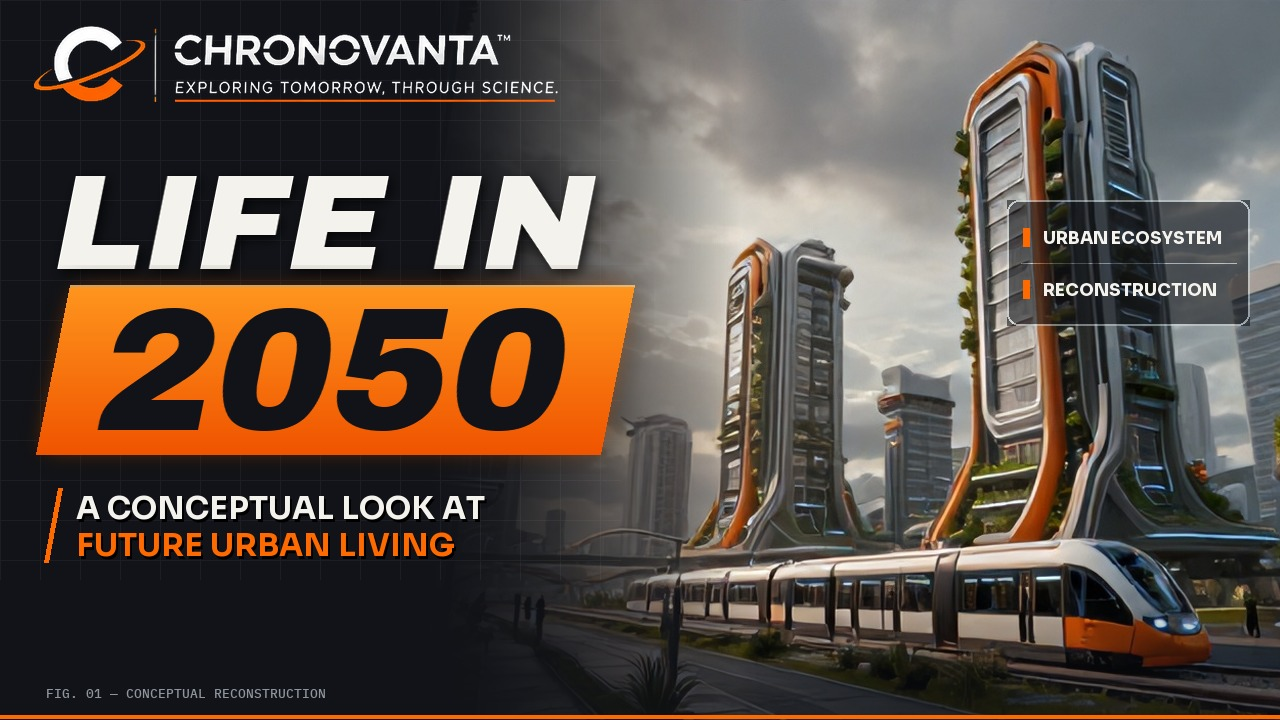
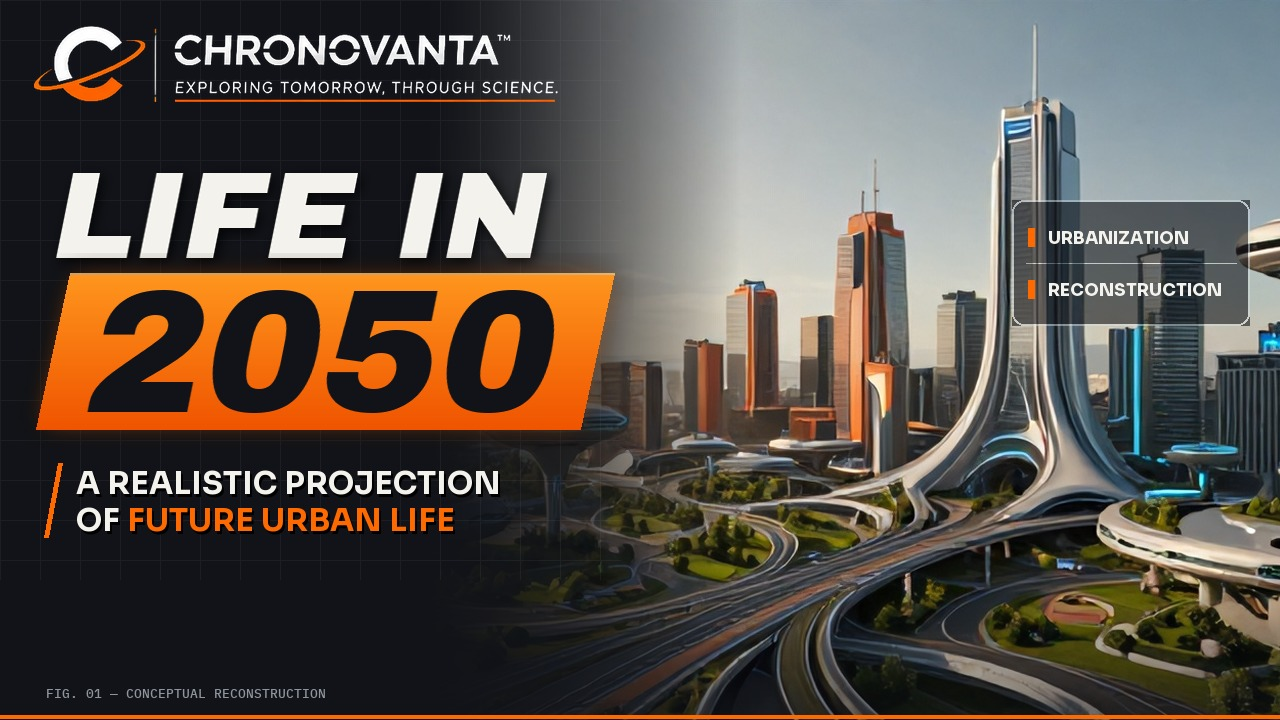
Shorts thumbnails inside YouTube's crop-safe area
YouTube shows a Short's 9:16 thumbnail cropped to about 2:3 in its lists, so
the logo at the very top was cut off. The Short card now keeps the logo and
headline in the middle (logo from y=270, headline from y=440, no annotation in
the bottom strip), and the style check fails any card with logo or headline in
the top 12%. Bar search on tall cards reaches 65% of the height.

diff --git a/src/style_match.py b/src/style_match.py
@@ -50,7 +50,7 @@ def measure(path: str | Path) -> dict:
     # The bar is the biggest orange area in the headline part of the card.
     zone = np.zeros_like(orange)
     if tall:
-        zone[: int(h * 0.5), :] = 1
+        zone[: int(h * 0.65), :] = 1  # the bar sits inside the crop-safe middle
     else:
         zone[:, : int(w * 0.62)] = 1
     count, labels, stats, _ = cv2.connectedComponentsWithStats(orange * zone, connectivity=8)
@@ -74,13 +74,19 @@ def measure(path: str | Path) -> dict:
         off_edge = (left <= 0 or right_cut) if tall else right_cut
     ivory = ((r > 205) & (g > 205) & (b > 195) & (abs(r - b) < 40)).astype(np.uint8)
     if tall:
-        area = ivory[int(h * 0.1): int(h * 0.3), :]
+        # The whole upper part: the headline may sit higher (examples) or lower
+        # (inside YouTube's crop-safe area) and is still measured the same way.
+        area = ivory[: int(h * 0.6), :]
     else:
         area = ivory[int(h * 0.18): int(h * 0.5), : int(w * 0.5)]
     # Headline letters touching the side edges.
     edge_text = bool(ivory[int(h * 0.1): int(h * 0.3), :2].any() or ivory[int(h * 0.1): int(h * 0.3), -2:].any())         if tall else bool(ivory[int(h * 0.18): int(h * 0.5), :2].any())
+    # YouTube shows a Short's 9:16 thumbnail cropped to about 2:3 in its lists:
+    # roughly the top and bottom 13% are cut, so no logo or headline may sit there.
+    in_crop = bool(tall and ivory[: int(h * 0.12), :].mean() > 0.002)
     return {"tall": tall, "bar_h": round(float(bar_h), 3), "bar_w": round(float(bar_w), 3),
-            "headline": round(float(area.mean()), 3), "off_edge": bool(off_edge), "edge_text": edge_text}
+            "headline": round(float(area.mean()), 3), "off_edge": bool(off_edge), "edge_text": edge_text,
+            "in_crop": in_crop}
 
 
 def reference(channel_id: str, tall: bool) -> dict | None:
@@ -127,6 +133,9 @@ def compare(path: str | Path, channel_id: str) -> dict:
         ratios["edge"] = 1
     if card.get("edge_text"):
         issues.append("headline letters touch the edge of the card")
+        ratios["edge"] = 1
+    if card.get("in_crop"):
+        issues.append("logo or headline sits in the top strip YouTube cuts off Shorts thumbnails")
         ratios["edge"] = 1
     worst = max(abs(r - 1) for k, r in ratios.items() if k != "edge")
     if "edge" in ratios:

diff --git a/src/future_thumbnail.py b/src/future_thumbnail.py
@@ -46,8 +46,8 @@ SPEC = {
         "sub_gap": 34, "sub_size": 31, "sub_weight": "Bold", "sub_upper": True, "sub_max_w": 470,
     },
     "short": {  # 1080 x 1920
-        "brand_y": 40, "brand_scale": 1.9,
-        "top_y": 230, "shear": 0.2,
+        "brand_y": 270, "brand_scale": 1.55,   # inside the 2:3 area YouTube shows
+        "top_y": 440, "shear": 0.2,
         "top_font": "archivo", "top_weight": "", "top_size": 240, "top_max_w": 920, "top_gap": 1.0,
         "big_font": "archivo", "big_size": 360, "big_max_w": 760,
         "bar_min_w": 940, "bar_slant": 50, "bar_pad": 70,
@@ -398,7 +398,7 @@ def compose_long(plan: dict, visual: Path | None, out: Path, channel, spec: dict
 def compose_short(plan: dict, visual: Path | None, out: Path, channel, spec: dict | None = None) -> Path:
     W, H = 1080, 1920
     canvas = Image.new("RGBA", (W, H), GRAPHITE + (255,))
-    art_top = 760
+    art_top = 940
     if visual and Path(visual).is_file():
         art = _cover(Image.open(visual).convert("RGB"), W, H - art_top + 260, 0.5).convert("RGBA")
         mask = Image.new("L", art.size, 255)
@@ -443,7 +443,7 @@ def compose_short(plan: dict, visual: Path | None, out: Path, channel, spec: dic
     for y in range(220):
         fd.line([(0, y), (W, y)], fill=GRAPHITE + (int(220 * (y / 220) ** 1.4),))
     canvas.alpha_composite(floor, (0, H - 220))
-    _annotation(canvas, 60, H - 70, "FIG. 01 — CONCEPTUAL RECONSTRUCTION", 1.5)
+    # (No annotation at the bottom: that strip is cut off in YouTube's Shorts lists.)
     ImageDraw.Draw(canvas).line([(0, H - 6), (W, H - 6)], fill=ORANGE + (255,), width=6)
     return _save(canvas, out)
 
